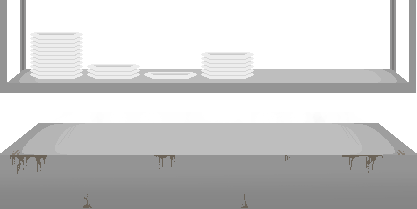
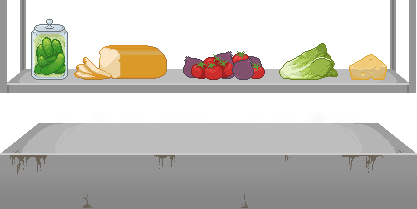
added display function for recipe (no more random sandwiches on screem). added fade-in/fade-out for recipe creation. reworked recipe image generation to look pretty

Changed region(s): [[0.0, 0.0861, 0.9976, 0.4306], [0.9353, 0.7177, 1.0, 0.7464], [0.0, 0.7177, 0.0935, 0.7464]]

diff --git a/sandwich_main.html b/sandwich_main.html
@@ -13,9 +13,7 @@
 <body>
 <script type="text/javascript">
 
-  ///////////////////////////////////////////
- //		GLOBAL Variables 						//
-///////////////////////////////////////////
+//============GLOBAL Variables===================//
 var game = new Phaser.Game(750, 1334, Phaser.AUTO, '',
 	{preload: preload, create: create, update: update});
 //Mouse Controls
@@ -40,6 +38,7 @@ var plate_3;						//blue quadrant plate object
 	var plate3_tweenAlpha;		//		plate hop up
 	var plate3_tweenBeta;		//		plate hop down
 //Ingredients
+var sandwich_scale = 0.6;
 var ingredient_amount = 10;
 var possibleItems = [];
 var nextFall;
@@ -52,14 +51,19 @@ var fallingItems = [];
 //Background Objects
 var kitchen_0;
 var kitchen_1;
+var conveyor_belt;
+//Recipe Storage
+var active_recipes = [];
+var active_recipe_images = [];
+var active_sandwiches = [];
 
 //Temporary Variables
 
 function preload () {
-	//Functional Objects
+	//Functional Elements
 	game.load.image("wheel_sprite", "assets/images/placeholder/placeholder_wheel.png");
 	game.load.image("plate_sprite", "assets/images/big_plate.png");
-	//Ingredient Objects
+	//Ingredient Elements
 	game.load.image("bread_sprite", "assets/images/bread.png");
 	game.load.image("cheese_sprite", "assets/images/cheese.png");
 	possibleItems.push("cheese_sprite");
@@ -81,11 +85,15 @@ function preload () {
 	possibleItems.push("bacon_sprite");
 	game.load.image("pickle_sprite", "assets/images/pickle.png");
 	possibleItems.push("pickle_sprite");
-	//Background Objects
+	//Background Elements
 	game.load.image("kitchen_back", "assets/images/kitchen_back.png");
 	game.load.image("kitchen_front", "assets/images/kitchen_front.png");
+	game.load.image("conveyor_belt", "assets/images/conveyorbelt.png");
 	game.load.image("diner_floor", "assets/images/diner_floor.png");
 	game.load.image("floor_gradient", "assets/images/diner_floor_gradient.png");
+	//User Interface Elements
+	game.load.image("recipe_backing", "assets/images/recipe_backing.png");
+	game.load.image("blank_sprite", "assets/images/null.png");
 }
 
 function create() {
@@ -97,6 +105,8 @@ function create() {
 	kitchen_1 = game.add.sprite(game.width/2, 0, "kitchen_front");
 	kitchen_0.anchor.set(0.5, 0);
 	kitchen_1.anchor.set(0.5, 0);
+	conveyor_belt = game.add.sprite(game.width/2, 195, "conveyor_belt");
+	conveyor_belt.anchor.set(0.5, 0);
 	floor = game.add.sprite(game.width/2, game.height, "diner_floor");
 	gradient = game.add.sprite(game.width/2, game.height, "floor_gradient");
 	floor.anchor.set(0.5, 1);
@@ -164,7 +174,7 @@ function create() {
 	plate3_tweenAlpha.chain(plate3_tweenBeta);
 
 	//set lastfall to the current time
-    nextFall = game.time.time + Math.random() * fallTimeMax;
+	 nextFall = game.time.time + Math.random() * fallTimeMax;
 
 	//Defining function call when mouse is clicked/released
 	game.input.onDown.add(onClick, this);
@@ -173,16 +183,16 @@ function create() {
 
 function update() {
 	if (game.time.time > nextFall) {
-        //generate a random number to determine which ingredient to drop
-        toDrop = Math.floor(Math.random() * (possibleItems.length - 1));
-        newItem = game.add.sprite(game.width / 2, 0, possibleItems[toDrop]);
-        game.physics.enable(newItem);
-        newItem.anchor.set(0.5);
-        newItem.body.maxVelocity.set(300);
-        newItem.body.acceleration.y = 100;
-        fallingItems.push(newItem);
-        nextFall = fallTimeMin + game.time.time + Math.random() * fallTimeMax;
-    }
+		//generate a random number to determine which ingredient to drop
+		toDrop = Math.floor(Math.random() * (possibleItems.length - 1));
+		newItem = game.add.sprite(game.width / 2, 0, possibleItems[toDrop]);
+		game.physics.enable(newItem);
+		newItem.anchor.set(0.5);
+		newItem.body.maxVelocity.set(300);
+		newItem.body.acceleration.y = 100;
+		fallingItems.push(newItem);
+		nextFall = fallTimeMin + game.time.time + Math.random() * fallTimeMax;
+	}
 }
 
 //Function called on left-click start
@@ -235,87 +245,98 @@ function onRelease() {
 
 //Function called to generate sandwich recipe
 function generateSandwich() {
-	var sandwich = game.add.sprite(game.input.mousePointer.x, game.input.mousePointer.y, "bread_sprite");
+	if (active_recipes.length === 4) {
+		nix_recipe(game.rnd.integerInRange(0, 2));
+	}
+	var sandwich = game.add.sprite(0, 0, "bread_sprite");
+	var recipe_image = game.add.sprite(0, 0, "recipe_backing");
+	recipe_image.anchor.set(0.5, 0.5);
+	recipe_image.alpha = 0;
+	recipe_image.addChild(sandwich);
+	recipe_image.x = 135 + (active_recipes.length % 4 * (recipe_image.width + 5));
+	recipe_image.y = 345 - recipe_image.height - 5;
 	sandwich.anchor.set(0.5, 0.5);
 	sandwich.width = 0.8 * sandwich.width;
-	var sandwich_code = "";
 	var sandwich_height = 0;
-	var sandwich_size = game.rnd.integerInRange(2, 6);
+	var sandwich_size = game.rnd.integerInRange(2, 5);
 	var letter_mod = 2;
+	var letter_header = game.add.sprite(0, 0, "blank_sprite");
+	recipe_image.addChild(letter_header);
+	letter_header.x = -(sandwich_size/2 * 25);
+	var ingredient_array = [];
 	for (var i = 0; i < sandwich_size; ++i) {
 		var ingredient_number = game.rnd.integerInRange(0, ingredient_amount - 1);
 		var next_ingredient;
 		if (ingredient_number === 0) {
 			next_ingredient = game.add.sprite(0, 0, "cheese_sprite");
-			sandwich_code += "00";
-			var ingredient_text = game.add.text(0, 0, "C", {font: "36px Arial Black", fill: "#ffd400"});
+			var ingredient_text = game.add.text(0, 0, "C", {font: "24px Arial Black", fill: "#ffd400"});
 			ingredient_text.stroke = "#ddcb71";
+			ingredient_array.push(0);
 		}
 		else if (ingredient_number === 1) {
 			next_ingredient = game.add.sprite(0, 0, "onion_sprite");
-			sandwich_code += "01";
-			var ingredient_text = game.add.text(0, 0, "O", {font: "36px Arial Black", fill: "#deacee9"});
+			var ingredient_text = game.add.text(0, 0, "O", {font: "24px Arial Black", fill: "#deacee9"});
 			ingredient_text.stroke = "#dbd4db";
+			ingredient_array.push(1);
 		}
 		else if (ingredient_number === 2) {
 			next_ingredient = game.add.sprite(0, 0, "tomato_sprite");
-			sandwich_code += "02";
-			var ingredient_text = game.add.text(0, 0, "T", {font: "36px Arial Black", fill: "#d81313"});
+			var ingredient_text = game.add.text(0, 0, "T", {font: "24px Arial Black", fill: "#d81313"});
 			ingredient_text.stroke = "#af5252";
+			ingredient_array.push(2);
 		}
 		else if (ingredient_number === 3) {
 			next_ingredient = game.add.sprite(0, 0, "lettuce_sprite");
-			sandwich_code += "03";
-			var ingredient_text = game.add.text(0, 0, "L", {font: "36px Arial Black", fill: "#52bf28"});
+			var ingredient_text = game.add.text(0, 0, "L", {font: "24px Arial Black", fill: "#52bf28"});
 			ingredient_text.stroke = "#8eba7c";
+			ingredient_array.push(3);
 		}
 		else if (ingredient_number === 4) {
 			next_ingredient = game.add.sprite(0, 0, "ham_sprite");
-			sandwich_code += "04";
-			var ingredient_text = game.add.text(0, 0, "H", {font: "36px Arial Black", fill: "#edc0cc"});
+			var ingredient_text = game.add.text(0, 0, "H", {font: "24px Arial Black", fill: "#edc0cc"});
 			ingredient_text.stroke = "#edd3da";
+			ingredient_array.push(4);
 		}
 		else if (ingredient_number === 5) {
 			next_ingredient = game.add.sprite(0, 0, "turkey_sprite");
-			sandwich_code += "05";
-			var ingredient_text = game.add.text(0, 0, "T", {font: "36px Arial Black", fill: "#f2e5dc"});
+			var ingredient_text = game.add.text(0, 0, "T", {font: "24px Arial Black", fill: "#f2e5dc"});
 			ingredient_text.stroke = "#a58d7a";
+			ingredient_array.push(5);
 		}
 		else if (ingredient_number === 6) {
 			next_ingredient = game.add.sprite(0, 0, "peanutbutter_sprite");
-			sandwich_code += "06";
-			var ingredient_text = game.add.text(0, 0, "P", {font: "36px Arial Black", fill: "#8c5105"});
+			var ingredient_text = game.add.text(0, 0, "P", {font: "24px Arial Black", fill: "#8c5105"});
 			ingredient_text.stroke = "#a58151";
+			ingredient_array.push(6);
 		}
 		else if (ingredient_number === 7) {
 			next_ingredient = game.add.sprite(0, 0, "jelly_sprite");
-			sandwich_code += "07";
-			var ingredient_text = game.add.text(0, 0, "J", {font: "36px Arial Black", fill: "#9624af"});
+			var ingredient_text = game.add.text(0, 0, "J", {font: "24px Arial Black", fill: "#9624af"});
 			ingredient_text.stroke = "#aa79b5";
+			ingredient_array.push(7);
 		}
 		else if (ingredient_number === 8) {
 			next_ingredient = game.add.sprite(0, 0, "bacon_sprite");
-			sandwich_code += "08";
-			var ingredient_text = game.add.text(0, 0, "B", {font: "36px Arial Black", fill: "#87270d"});
-			ingredient_text.stroke = "#a04b0e";
+			var ingredient_text = game.add.text(0, 0, "B", {font: "24px Arial Black", fill: "#87270d"});
+			ingredient_text.stroke = "#333333";
+			ingredient_array.push(8);
 		}
 		else if (ingredient_number === 9) {
 			next_ingredient = game.add.sprite(0, 0, "pickle_sprite");
-			sandwich_code += "09";
-			var ingredient_text = game.add.text(0, 0, "P", {font: "36px Arial Black", fill: "#7f990c"});
+			var ingredient_text = game.add.text(0, 0, "P", {font: "24px Arial Black", fill: "#7f990c"});
 			ingredient_text.stroke = "#b1c166";
+			ingredient_array.push(9);
 		}
 		next_ingredient.anchor.set(0.5, 0.5);
 		sandwich.addChild(next_ingredient);
 		next_ingredient.x = game.rnd.integerInRange(-15, 15);
-		sandwich_height += game.rnd.integerInRange(16, 20);
+		sandwich_height += game.rnd.integerInRange(16 * sandwich_scale, 20 * sandwich_scale);
 		next_ingredient.y = -1 * sandwich_height;
-		ingredient_text.anchor.set(0.5, 0.5);
-		sandwich.addChild(ingredient_text);
-		ingredient_text.strokeThickness = 8;
-		ingredient_text.setShadow(2, 2, "#333333", 2, true, false);
-		ingredient_text.x = (36 * i) - sandwich.width/2.5;
-		ingredient_text.y = 46 + letter_mod;
+		ingredient_text.anchor.set(0, 0.5);
+		letter_header.addChild(ingredient_text);
+		ingredient_text.strokeThickness = 6;
+		ingredient_text.x = (36 * (sandwich_scale + 0.1) * i);
+		ingredient_text.y = ((46 + letter_mod) * (sandwich_scale)) + 22;
 		ingredient_text.angle = ingredient_text.angle + game.rnd.integerInRange(-10, 10);
 		letter_mod = letter_mod * -1;
 	}
@@ -324,9 +345,115 @@ function generateSandwich() {
 	sandwich.addChild(sandwich_top);
 	sandwich_height += game.rnd.integerInRange(18, 20);
 	sandwich_top.y = -1 * sandwich_height;
+	sandwich.width = sandwich.width * sandwich_scale;
+	sandwich.height = sandwich.height * sandwich_scale;
+	active_recipes.push(ingredient_array);
+	active_recipe_images.push(recipe_image);
+	var recipe_slide_in = game.add.tween(recipe_image).to({y: recipe_image.y + (recipe_image.height + 5)}, tween_duration, Phaser.Easing.Quadratic.InOut);
+	var recipe_fade_in = game.add.tween(recipe_image).to({alpha: 1}, tween_duration, Phaser.Easing.Quadratic.InOut);
+	recipe_slide_in.start();
+	recipe_fade_in.start();
+}
 
-	var style = {font: "14px Arial", fill: "#ff0044", align: "center"};
-	game.add.text(game.input.mousePointer.x, game.input.mousePointer.y + 40, sandwich_code, style);
+//Function called to compare active recipes against plate contents (aka active sancwiches)
+function check_plates_for_recipe() {
+	//Green Quadrant is up (plate1)
+	if (wheel.angle % 360 === 225 || wheel.angle % 360 === -135) {
+		//loops over all active recipes
+		for (var i = 0; i < active_recipes.length; ++i) {
+			//checks if size of active recipe and size of active sandwich are different
+			if (active_recipes[i].length !== active_sandwiches[0].length)
+				break;
+			var sandwich_copy = active_sandwiches[0].slice();
+			//loops over all ingredients of active recipe
+			for (var j = 0; j < active_recipes[i].length; ++j) {
+				//searches for matching ingredient in active sandwich
+				for (var k = 0; k < sandwich_copy.length; ++k) {
+					if (active_recipes[i][j] === sandwich_copy[k]) {
+						sandwich_copy.splice(k, 1);
+						break;
+					}
+				}
+			}
+			//checks if all ingredients were removed (matched to recipe)
+			if (sandwich_copy.length !== 0)
+				break;
+			//recipe matched the plate contents
+			active_recipes.splice(i, 1);
+			active_sandwiches[0] = [];
+			return;
+		}
+	}
+	//Purple Quadrant is up (plate2)
+	else if (wheel.angle % 360 === 45 || wheel.angle % 360 === -315) {
+		//loops over all active recipes
+		for (var i = 0; i < active_recipes.length; ++i) {
+			//checks if size of active recipe and size of active sandwich are different
+			if (active_recipes[i].length !== active_sandwiches[1].length)
+				break;
+			var sandwich_copy = active_sandwiches[1].slice();
+			//loops over all ingredients of active recipe
+			for (var j = 0; j < active_recipes[i].length; ++j) {
+				//searches for matching ingredient in active sandwich
+				for (var k = 0; k < sandwich_copy.length; ++k) {
+					if (active_recipes[i][j] === sandwich_copy[k]) {
+						sandwich_copy.splice(k, 1);
+						break;
+					}
+				}
+			}
+			//checks if all ingredients were removed (matched to recipe)
+			if (sandwich_copy.length !== 0)
+				break;
+			//recipe matched the plate contents
+			active_recipes.splice(i, 1);
+			active_sandwiches[1] = [];
+			return;
+		}
+	}
+	//Blue Quadrant is up (plate3)
+	else if (wheel.angle % 360 === 315 || wheel.angle % 360 === -45) {
+		//loops over all active recipes
+		for (var i = 0; i < active_recipes.length; ++i) {
+			//checks if size of active recipe and size of active sandwich are different
+			if (active_recipes[i].length !== active_sandwiches[2].length)
+				break;
+			var sandwich_copy = active_sandwiches[2].slice();
+			//loops over all ingredients of active recipe
+			for (var j = 0; j < active_recipes[i].length; ++j) {
+				//searches for matching ingredient in active sandwich
+				for (var k = 0; k < sandwich_copy.length; ++k) {
+					if (active_recipes[i][j] === sandwich_copy[k]) {
+						sandwich_copy.splice(k, 1);
+						break;
+					}
+				}
+			}
+			//checks if all ingredients were removed (matched to recipe)
+			if (sandwich_copy.length !== 0)
+				break;
+			//recipe matched the plate contents
+			nix_recipe(i);
+			active_sandwiches[2] = [];
+			return;
+		}
+	}
+}
+
+function nix_recipe(recipe_index) {
+	var target_sprite = active_recipe_images[recipe_index];
+	for (var i = recipe_index + 1; i < active_recipe_images.length; ++i) {
+		var recipe_slide = game.add.tween(active_recipe_images[i]).to({x: active_recipe_images[i].x - (active_recipe_images[i].width + 5)}, tween_duration, Phaser.Easing.Quadratic.InOut);
+		recipe_slide.start();
+	}
+	active_recipes.splice(recipe_index, 1);
+	active_recipe_images.splice(recipe_index, 1);
+
+	var recipe_slide_out = game.add.tween(target_sprite).to({y: target_sprite.y - (target_sprite.height + 5)}, tween_duration, Phaser.Easing.Quadratic.InOut);
+	var recipe_fade_out = game.add.tween(target_sprite).to({alpha: 0}, tween_duration, Phaser.Easing.Quadratic.InOut);
+	target_sprite.lifespan = tween_duration;
+	recipe_slide_out.start();
+	recipe_fade_out.start();
 }
 
 </script>
